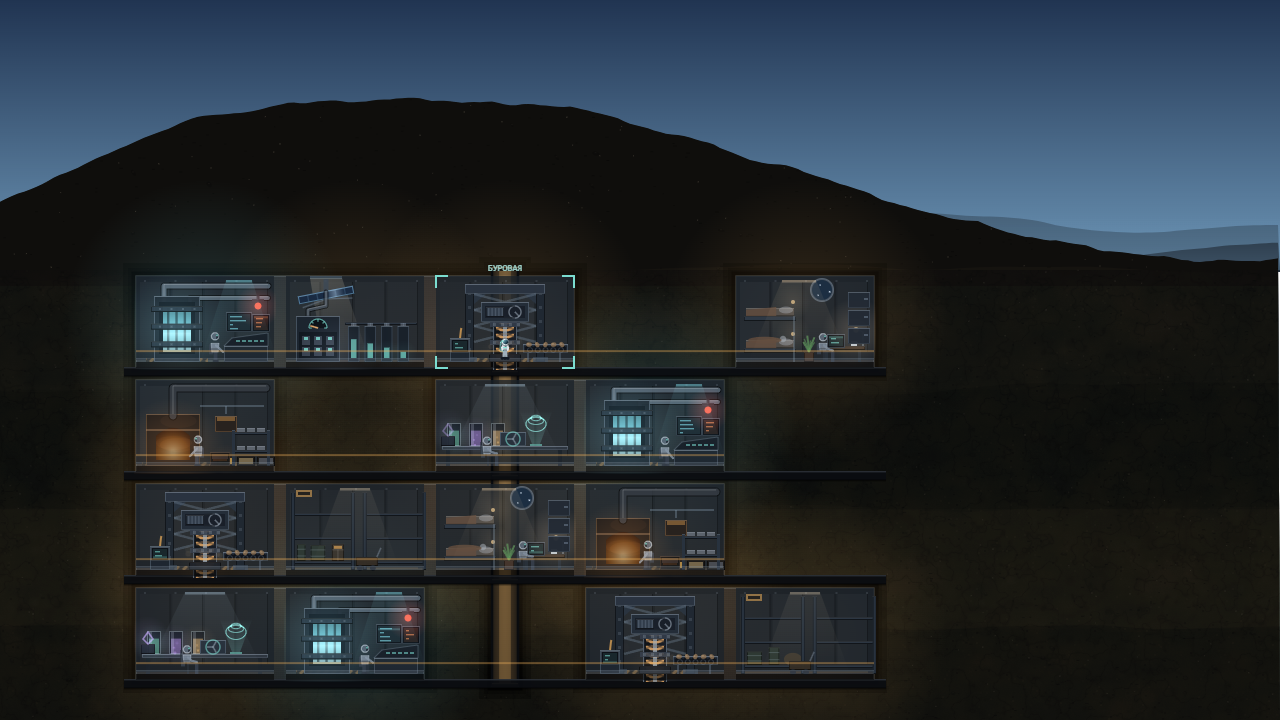
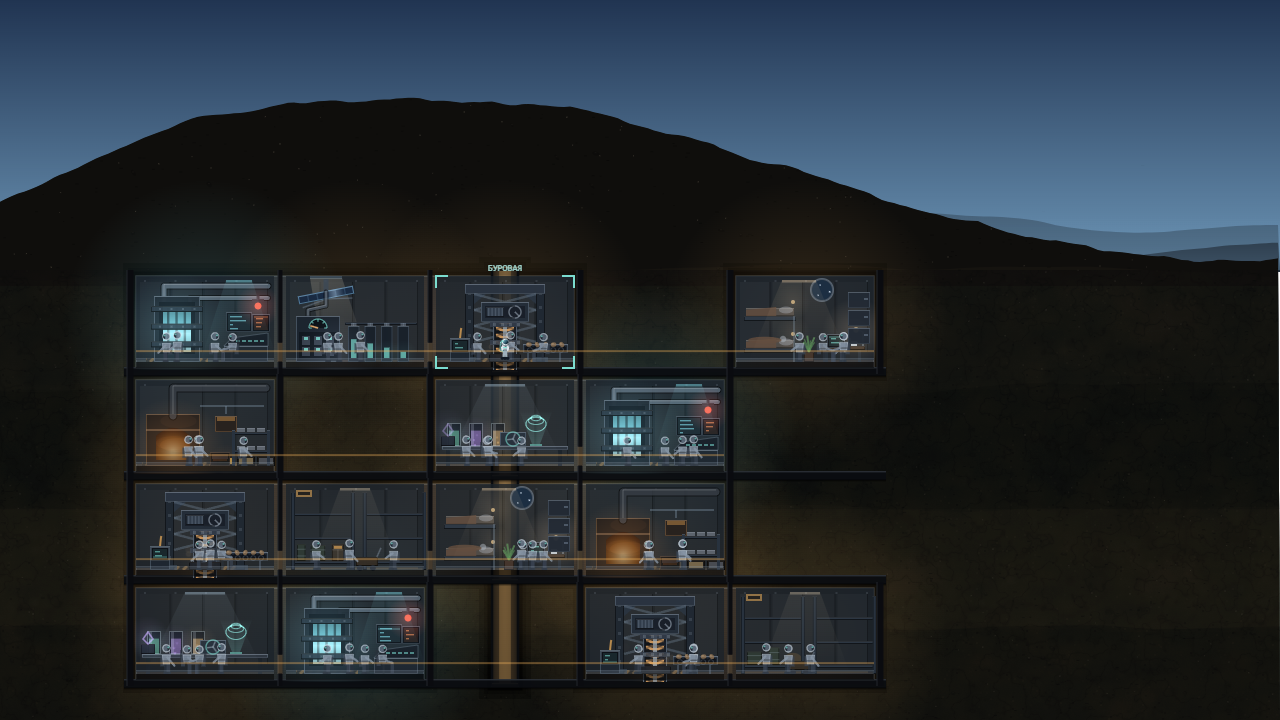
База: переборки между отсеками и смена в каждом помещении
7. Отсеки яруса стояли встык и сливались в ленту — где кончается склад и
   начинается жильё, было видно только по мебели. На образце каждая
   комната отбита толстой стеной. Переборка ставится на границе двух
   занятых клеток и по краям застройки, внешняя толще внутренней, и в
   ней светится проём: люди же как-то ходят между отсеками.
8. В комнате стоял ровно один работник, и база выглядела
   законсервированной. У образца в каждом помещении три-пять человек, и
   именно они делают убежище живым — глаз читает не мебель, а людей при
   мебели. Массовка добавлена общим приёмом в drawModule, а не правкой
   восьми комнат по отдельности.

   Честность важнее картинки: людей ровно столько, сколько на базе
   персонала (baseStaff). Пустая база остаётся пустой — иначе разрез врал
   бы о штате; стенд для снимка нанимает смену сам.

Тесты зелёные (2966).

diff --git a/docs/base.html b/docs/base.html
@@ -18320,6 +18320,25 @@ function drawModule(k,x,y,lit,c,r,B){
   bWall(x0,y0,w,h-8,lit,seed);
   const F=BASE_ROOM[k];
   if(F)F(x0,y0,w,h,cx,fy,lit,seed,B,P,c,r);
+  /* ── смена в отсеке ──
+     В комнате стоял ровно один работник, и база выглядела законсервированной:
+     у образца, по которому это переделывается, в каждом помещении по три-пять
+     человек, и именно они делают убежище живым — глаз читает не мебель, а
+     людей при мебели. Массовка добавляется поверх «своего» работника отсека,
+     общим приёмом, а не правкой восьми комнат по отдельности.
+
+     Честность механики важнее картинки: людей ровно столько, сколько на базе
+     персонала. Пустая база остаётся пустой — иначе разрез врал бы о штате. */
+  const staff=(typeof baseStaff==="function"&&B)?baseStaff(B).length:0;
+  if(staff>0){
+    const hh=hashi(c+3,r+5,(B&&B.idx|0)+11);
+    const room=Math.min(3,Math.round(staff/2)+((hh>>>4)&1));
+    for(let i=0;i<room;i++){
+      const px=x0+w*(.22+((hh>>>(i*3+2))&7)/7*.56);
+      const sit=((hh>>>(i+9))&3)===0;
+      bWorker(px,fy,lit,sit,G.t*(.028+i*.006)+seed+i*2.1,((hh>>>(i+13))&1)?1:-1);
+    }
+  }
   /* пол поверх всего: плита со светом сверху и тень, которой мебель касается */
   ctx.fillStyle="rgba(120,132,146,"+(.10+lit*.16).toFixed(2)+")";ctx.fillRect(x0,fy-4,w,4);
   ctx.fillStyle="rgba(150,166,182,"+(.05+lit*.08).toFixed(3)+")";ctx.fillRect(x0,fy-4,w,1);
@@ -19600,6 +19619,28 @@ function drawBase(){
       ctx.strokeStyle="rgba(255,80,60,.7)";ctx.lineWidth=2;
       ctx.beginPath();ctx.moveTo(x+14,y+14);ctx.lineTo(x+BCELL_W-14,y+BCELL_H-14);ctx.stroke();
       ctx.beginPath();ctx.moveTo(x+BCELL_W-14,y+14);ctx.lineTo(x+14,y+BCELL_H-14);ctx.stroke();
+    }
+  }
+  /* ── переборки ──
+     Отсеки одного яруса стояли встык и сливались в ленту: где кончается склад
+     и начинается жильё, было видно только по мебели. На образце каждая
+     комната отбита толстой стеной, и ряд читается ЧЕРЕДОЙ ПОМЕЩЕНИЙ, а не
+     одним длинным залом. Стена ставится на границе двух занятых клеток и по
+     краям застройки — там, где помещение упирается в породу. */
+  for(let r=0;r<baseRows(B);r++)for(let c=0;c<=BASE_COLS;c++){
+    const a=c>0?baseCell(B,c-1,r):null, b=c<BASE_COLS?baseCell(B,c,r):null;
+    if(!a&&!b)continue;
+    const x=X(90+c*BCELL_W), y0=Y(150+r*BCELL_H), y1=Y(150+(r+1)*BCELL_H);
+    if(x<-20||x>W+20)continue;
+    const wdt=(a&&b)?5:7;                       // внешняя стена толще внутренней
+    ctx.fillStyle="rgba(9,11,15,.95)";
+    ctx.fillRect(x-wdt/2,y0,wdt,y1-y0);
+    ctx.fillStyle="rgba(150,164,180,"+(.08+lit*.12).toFixed(2)+")";
+    ctx.fillRect(x-wdt/2,y0,1,y1-y0);           // блик по кромке, обращённой к свету
+    /* проём между смежными отсеками: люди же как-то ходят */
+    if(a&&b){
+      ctx.fillStyle="rgba(255,206,140,"+(.10+lit*.16).toFixed(2)+")";
+      ctx.fillRect(x-wdt/2,y1-BCELL_H*.30,wdt,BCELL_H*.18);
     }
   }
   /* коридор-стяжка вдоль пола и ствол лифта */
@@ -28819,6 +28860,9 @@ setTimeout(function(){
     if((i*7)%11<8)cells[i]={k:kinds[i%kinds.length],hp:1};
   G.bases[baseKey(G.sx,G.sy,p.idx)]={sx:G.sx,sy:G.sy,idx:p.idx,name:p.name,type:p.type,
     res:p.res.slice(0,3),cells:cells,pool:{},tMs:Date.now(),built:Date.now()};
+  // РЅР° СЃС‚РµРЅРґРµ РЅСѓР¶РµРЅ С€С‚Р°С‚: Р»СЋРґРµР№ СЂРѕРІРЅРѕ СЃС‚РѕР»СЊРєРѕ, СЃРєРѕР»СЊРєРѕ РЅР°РЅСЏС‚Рѕ, Рё РїСѓСЃС‚Р°СЏ Р±Р°Р·Р°
+  // РѕСЃС‚Р°С‘С‚СЃСЏ РїСѓСЃС‚РѕР№ вЂ” РїРѕСЌС‚РѕРјСѓ РґР»СЏ СЃРЅРёРјРєР° РЅР°РЅРёРјР°РµРј СЃРјРµРЅСѓ
+  for(var q=0;q<8;q++){var cw=genMerc(hashi(q*77+13,5,3));cw.order={kind:"base",sx:G.sx,sy:G.sy,idx:p.idx};G.crew.push(cw);}
   enterBase(p);
   setTimeout(function(){
     for(var f=0;f<3;f++)frame(performance.now()+f*16);

diff --git a/drift.html b/drift.html
@@ -18320,6 +18320,25 @@ function drawModule(k,x,y,lit,c,r,B){
   bWall(x0,y0,w,h-8,lit,seed);
   const F=BASE_ROOM[k];
   if(F)F(x0,y0,w,h,cx,fy,lit,seed,B,P,c,r);
+  /* ── смена в отсеке ──
+     В комнате стоял ровно один работник, и база выглядела законсервированной:
+     у образца, по которому это переделывается, в каждом помещении по три-пять
+     человек, и именно они делают убежище живым — глаз читает не мебель, а
+     людей при мебели. Массовка добавляется поверх «своего» работника отсека,
+     общим приёмом, а не правкой восьми комнат по отдельности.
+
+     Честность механики важнее картинки: людей ровно столько, сколько на базе
+     персонала. Пустая база остаётся пустой — иначе разрез врал бы о штате. */
+  const staff=(typeof baseStaff==="function"&&B)?baseStaff(B).length:0;
+  if(staff>0){
+    const hh=hashi(c+3,r+5,(B&&B.idx|0)+11);
+    const room=Math.min(3,Math.round(staff/2)+((hh>>>4)&1));
+    for(let i=0;i<room;i++){
+      const px=x0+w*(.22+((hh>>>(i*3+2))&7)/7*.56);
+      const sit=((hh>>>(i+9))&3)===0;
+      bWorker(px,fy,lit,sit,G.t*(.028+i*.006)+seed+i*2.1,((hh>>>(i+13))&1)?1:-1);
+    }
+  }
   /* пол поверх всего: плита со светом сверху и тень, которой мебель касается */
   ctx.fillStyle="rgba(120,132,146,"+(.10+lit*.16).toFixed(2)+")";ctx.fillRect(x0,fy-4,w,4);
   ctx.fillStyle="rgba(150,166,182,"+(.05+lit*.08).toFixed(3)+")";ctx.fillRect(x0,fy-4,w,1);
@@ -19600,6 +19619,28 @@ function drawBase(){
       ctx.strokeStyle="rgba(255,80,60,.7)";ctx.lineWidth=2;
       ctx.beginPath();ctx.moveTo(x+14,y+14);ctx.lineTo(x+BCELL_W-14,y+BCELL_H-14);ctx.stroke();
       ctx.beginPath();ctx.moveTo(x+BCELL_W-14,y+14);ctx.lineTo(x+14,y+BCELL_H-14);ctx.stroke();
+    }
+  }
+  /* ── переборки ──
+     Отсеки одного яруса стояли встык и сливались в ленту: где кончается склад
+     и начинается жильё, было видно только по мебели. На образце каждая
+     комната отбита толстой стеной, и ряд читается ЧЕРЕДОЙ ПОМЕЩЕНИЙ, а не
+     одним длинным залом. Стена ставится на границе двух занятых клеток и по
+     краям застройки — там, где помещение упирается в породу. */
+  for(let r=0;r<baseRows(B);r++)for(let c=0;c<=BASE_COLS;c++){
+    const a=c>0?baseCell(B,c-1,r):null, b=c<BASE_COLS?baseCell(B,c,r):null;
+    if(!a&&!b)continue;
+    const x=X(90+c*BCELL_W), y0=Y(150+r*BCELL_H), y1=Y(150+(r+1)*BCELL_H);
+    if(x<-20||x>W+20)continue;
+    const wdt=(a&&b)?5:7;                       // внешняя стена толще внутренней
+    ctx.fillStyle="rgba(9,11,15,.95)";
+    ctx.fillRect(x-wdt/2,y0,wdt,y1-y0);
+    ctx.fillStyle="rgba(150,164,180,"+(.08+lit*.12).toFixed(2)+")";
+    ctx.fillRect(x-wdt/2,y0,1,y1-y0);           // блик по кромке, обращённой к свету
+    /* проём между смежными отсеками: люди же как-то ходят */
+    if(a&&b){
+      ctx.fillStyle="rgba(255,206,140,"+(.10+lit*.16).toFixed(2)+")";
+      ctx.fillRect(x-wdt/2,y1-BCELL_H*.30,wdt,BCELL_H*.18);
     }
   }
   /* коридор-стяжка вдоль пола и ствол лифта */

diff --git a/src/21a-mode-base.js b/src/21a-mode-base.js
@@ -679,6 +679,28 @@ function drawBase(){
       ctx.beginPath();ctx.moveTo(x+BCELL_W-14,y+14);ctx.lineTo(x+14,y+BCELL_H-14);ctx.stroke();
     }
   }
+  /* ── переборки ──
+     Отсеки одного яруса стояли встык и сливались в ленту: где кончается склад
+     и начинается жильё, было видно только по мебели. На образце каждая
+     комната отбита толстой стеной, и ряд читается ЧЕРЕДОЙ ПОМЕЩЕНИЙ, а не
+     одним длинным залом. Стена ставится на границе двух занятых клеток и по
+     краям застройки — там, где помещение упирается в породу. */
+  for(let r=0;r<baseRows(B);r++)for(let c=0;c<=BASE_COLS;c++){
+    const a=c>0?baseCell(B,c-1,r):null, b=c<BASE_COLS?baseCell(B,c,r):null;
+    if(!a&&!b)continue;
+    const x=X(90+c*BCELL_W), y0=Y(150+r*BCELL_H), y1=Y(150+(r+1)*BCELL_H);
+    if(x<-20||x>W+20)continue;
+    const wdt=(a&&b)?5:7;                       // внешняя стена толще внутренней
+    ctx.fillStyle="rgba(9,11,15,.95)";
+    ctx.fillRect(x-wdt/2,y0,wdt,y1-y0);
+    ctx.fillStyle="rgba(150,164,180,"+(.08+lit*.12).toFixed(2)+")";
+    ctx.fillRect(x-wdt/2,y0,1,y1-y0);           // блик по кромке, обращённой к свету
+    /* проём между смежными отсеками: люди же как-то ходят */
+    if(a&&b){
+      ctx.fillStyle="rgba(255,206,140,"+(.10+lit*.16).toFixed(2)+")";
+      ctx.fillRect(x-wdt/2,y1-BCELL_H*.30,wdt,BCELL_H*.18);
+    }
+  }
   /* коридор-стяжка вдоль пола и ствол лифта */
   /* Стяжка идёт по полу только там, где есть отсеки: раньше она чертилась во всю
      ширину базы на каждом ярусе, включая нетронутые, и оранжевые линии висели

diff --git a/src/21aa-base-rooms.js b/src/21aa-base-rooms.js
@@ -166,6 +166,25 @@ function drawModule(k,x,y,lit,c,r,B){
   bWall(x0,y0,w,h-8,lit,seed);
   const F=BASE_ROOM[k];
   if(F)F(x0,y0,w,h,cx,fy,lit,seed,B,P,c,r);
+  /* ── смена в отсеке ──
+     В комнате стоял ровно один работник, и база выглядела законсервированной:
+     у образца, по которому это переделывается, в каждом помещении по три-пять
+     человек, и именно они делают убежище живым — глаз читает не мебель, а
+     людей при мебели. Массовка добавляется поверх «своего» работника отсека,
+     общим приёмом, а не правкой восьми комнат по отдельности.
+
+     Честность механики важнее картинки: людей ровно столько, сколько на базе
+     персонала. Пустая база остаётся пустой — иначе разрез врал бы о штате. */
+  const staff=(typeof baseStaff==="function"&&B)?baseStaff(B).length:0;
+  if(staff>0){
+    const hh=hashi(c+3,r+5,(B&&B.idx|0)+11);
+    const room=Math.min(3,Math.round(staff/2)+((hh>>>4)&1));
+    for(let i=0;i<room;i++){
+      const px=x0+w*(.22+((hh>>>(i*3+2))&7)/7*.56);
+      const sit=((hh>>>(i+9))&3)===0;
+      bWorker(px,fy,lit,sit,G.t*(.028+i*.006)+seed+i*2.1,((hh>>>(i+13))&1)?1:-1);
+    }
+  }
   /* пол поверх всего: плита со светом сверху и тень, которой мебель касается */
   ctx.fillStyle="rgba(120,132,146,"+(.10+lit*.16).toFixed(2)+")";ctx.fillRect(x0,fy-4,w,4);
   ctx.fillStyle="rgba(150,166,182,"+(.05+lit*.08).toFixed(3)+")";ctx.fillRect(x0,fy-4,w,1);

diff --git a/docs/INDEX.md b/docs/INDEX.md
@@ -110,7 +110,7 @@ bargeSysAt                   src/12l-barge.js:25
 BARTER                       src/04-mods.js:60
 BASE_COLS                    src/21a-mode-base.js:6
 BASE_ROLES                   src/12a-crew.js:118
-BASE_ROOM                    src/21aa-base-rooms.js:177
+BASE_ROOM                    src/21aa-base-rooms.js:196
 baseAt                       src/21a-mode-base.js:35
 baseCell                     src/21a-mode-base.js:78
 baseCollect                  src/21a-mode-base.js:263
@@ -345,7 +345,7 @@ drawBelt                     src/24-mode-belt.js:318
 drawBeltPOISprite            src/24b-belt-poi.js:50
 drawBeltRing                 src/17-mode-system.js:481
 drawBeltRocks                src/17-mode-system.js:439
-drawBuildMenu                src/21aa-base-rooms.js:752
+drawBuildMenu                src/21aa-base-rooms.js:771
 drawBuilt                    src/21c-built.js:57
 drawCantinaRoom              src/27d-ui-cantina.js:32
 drawCave                     src/22-mode-cave.js:131
@@ -1507,11 +1507,11 @@ ZAP_COOL                     src/23-mode-dig.js:212
   · флора:88
   · фауна:456
 
-## src/21aa-base-rooms.js · 49 КБ
+## src/21aa-base-rooms.js · 50 КБ
   · база: внутренности отсеков:1
   · внутренности отсеков:5
 
-## src/21a-mode-base.js · 45 КБ
+## src/21a-mode-base.js · 47 КБ
   · база на планете: вид в разрезе:1
   · энергия и соседство:80
   · ленивое время базы:135
